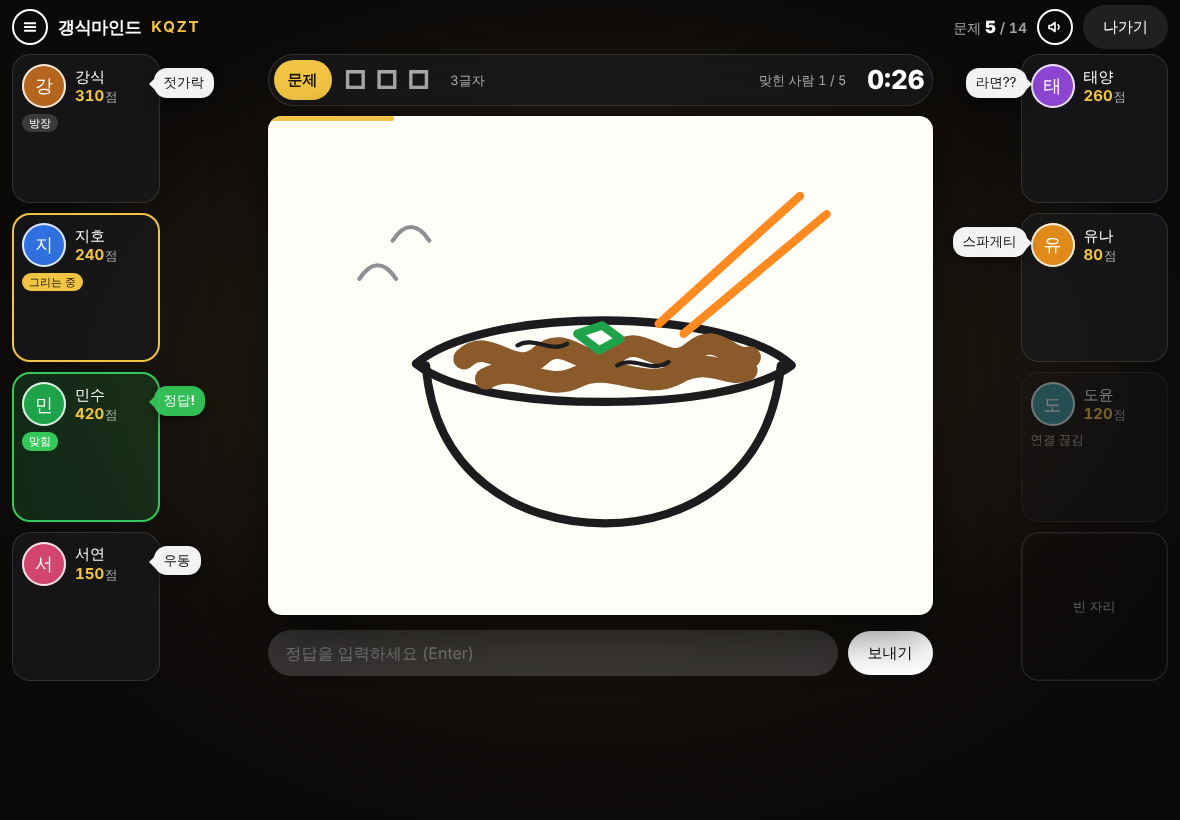
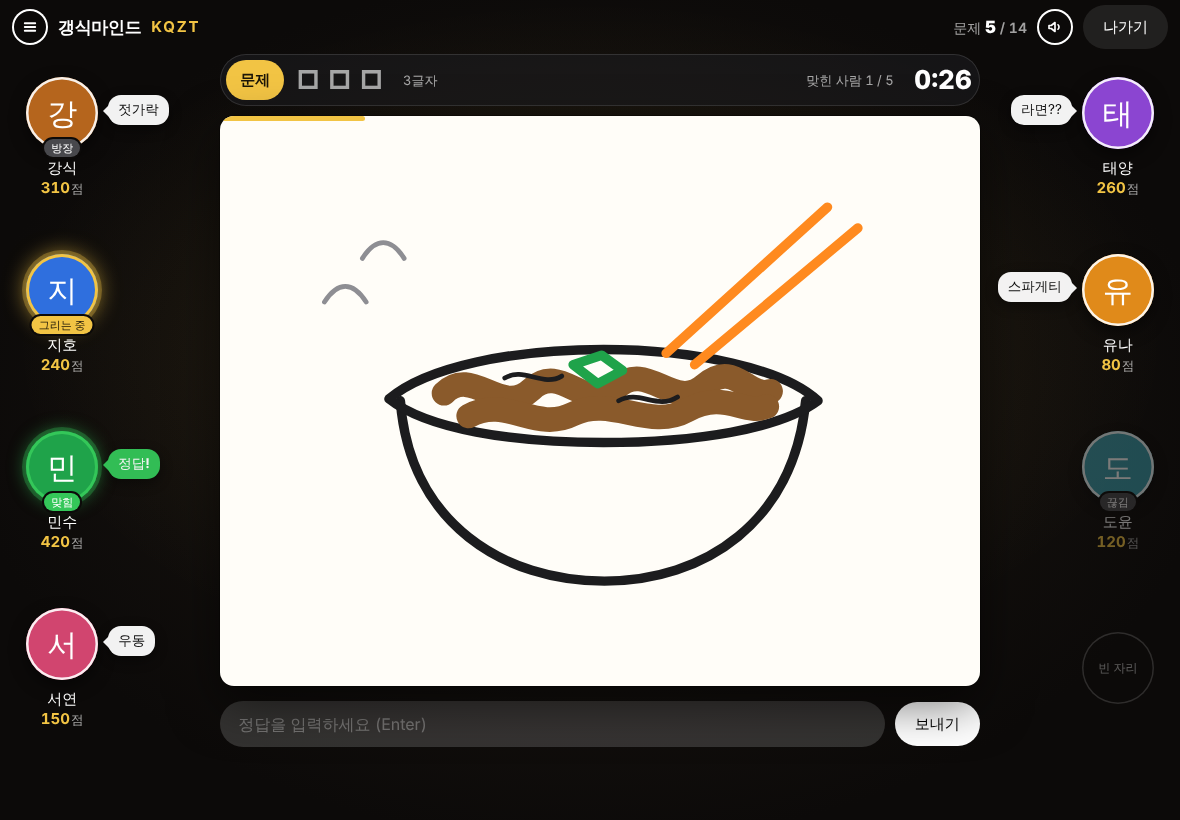
갱식마인드: 기획서 v0.2와 시안 갱신(출제 순서, 점수, 도구, 프로필 말풍선)
Claude-Session: https://claude.ai/code/session_01HLnaqZjB45q4jBceVSssci

diff --git a/design/draw/index.html b/design/draw/index.html
@@ -16,7 +16,7 @@
   --accent:#f2c444;--on-accent:#1c1608;--red:#ff453a;--green:#34c759;
   --panel:rgba(28,28,30,.62);--paper:#fffdf8;
   --pad:12px;--gap:12px;--bar:54px;--strip:52px;--under:56px;
-  --pw:clamp(120px,12.5vw,160px);--palw:84px;--toolw:64px;
+  --pw:clamp(92px,8.5vw,112px);--palw:84px;--toolw:64px;
   --sl:0px;--sr:0px;
   --ch:min(calc(100dvh - var(--bar) - var(--pad)*2 - var(--strip) - var(--under) - 20px),
            calc((100vw - var(--pad)*2 - var(--pw)*2 - var(--palw) - var(--toolw) - var(--gap)*4)*.75));
@@ -61,25 +61,34 @@ svg{display:block}
   padding:0 calc(var(--pad) + var(--sr)) var(--pad) calc(var(--pad) + var(--sl))}
 .dr-seats{display:flex;flex-direction:column;gap:10px;min-height:0;height:calc(var(--strip) + var(--ch) + var(--under) + 20px)}
 .dr-seats.l{grid-column:1}.dr-seats.r{grid-column:5}
-.dr-seat{flex:1;min-height:0;border-radius:18px;background:var(--panel);box-shadow:inset 0 0 0 1px var(--hair);padding:10px;display:flex;flex-direction:column;gap:6px;position:relative;overflow:visible}
-.dr-seat.empty{background:none;box-shadow:inset 0 0 0 1.5px rgba(255,255,255,.1);align-items:center;justify-content:center;color:var(--ink3);font-size:13px}
-.dr-seat.turn{box-shadow:inset 0 0 0 2px var(--accent)}
-.dr-seat.hit{box-shadow:inset 0 0 0 2px var(--green);background:rgba(52,199,89,.16)}
+.dr-seat{flex:1;min-height:0;display:flex;flex-direction:column;align-items:center;justify-content:center;gap:2px;position:relative}
 .dr-seat.off{opacity:.45}
-.dr-who{display:flex;gap:9px;align-items:center;min-width:0}
-.dr-who>div{min-width:0}
+.dr-who{display:flex;flex-direction:column;gap:9px;align-items:center;min-width:0;max-width:100%;text-align:center}
+.dr-who>div{min-width:0;max-width:100%}
+.dr-avw{position:relative;display:block}
+.dr-seat .dr-av{width:72px;height:72px;font-size:30px;box-shadow:inset 0 0 0 2.5px rgba(255,255,255,.9),0 6px 16px rgba(0,0,0,.5)}
+.dr-seat.turn .dr-av{box-shadow:inset 0 0 0 3px var(--accent),0 0 0 4px rgba(242,196,68,.3),0 0 22px rgba(242,196,68,.7)}
+.dr-seat.hit .dr-av{box-shadow:inset 0 0 0 3px var(--green),0 0 0 4px rgba(52,199,89,.3),0 0 18px rgba(52,199,89,.6)}
+.dr-av.dr-none{background:none;box-shadow:inset 0 0 0 1.5px rgba(255,255,255,.14);color:var(--ink3);font-size:12px;font-weight:500}
 .dr-nm{font-weight:700;font-size:15px;white-space:nowrap;overflow:hidden;text-overflow:ellipsis}
 .dr-sc{font-size:12.5px;color:var(--ink2);white-space:nowrap}
 .dr-sc b{color:var(--accent);font-size:15px;margin-right:1px}
-.dr-tag{align-self:flex-start;font-size:11px;font-weight:700;padding:2px 7px;border-radius:9px;background:var(--accent);color:var(--on-accent)}
-.dr-tag.host{background:var(--fill2);color:var(--ink)}
+.dr-tag{position:absolute;left:50%;bottom:-8px;transform:translateX(-50%);white-space:nowrap;font-size:11px;font-weight:700;padding:2px 7px;border-radius:9px;background:var(--accent);color:var(--on-accent);box-shadow:0 0 0 2px #0c0a09}
+.dr-tag.host,.dr-tag.gone{background:#48484c;color:var(--ink)}
 .dr-tag.ok{background:var(--green);color:#fff}
-.dr-say{position:absolute;top:14px;z-index:4;width:max-content;max-width:170px;font-size:13.5px;line-height:1.3;padding:6px 10px;border-radius:13px;background:#fff;color:#111;opacity:.95;pointer-events:none;
+/* 말할 때 프로필이 통통, 맞혔을 때는 더 크게 */
+.dr-av.talk{animation:dr-bounce .38s cubic-bezier(.3,.7,.4,1)}
+.dr-av.cheer{animation:dr-cheer .75s cubic-bezier(.3,.7,.4,1)}
+@keyframes dr-bounce{0%{transform:none}30%{transform:translateY(-12px) scale(.95,1.06)}62%{transform:translateY(0) scale(1.1,.9)}82%{transform:translateY(-3px) scale(.98,1.02)}100%{transform:none}}
+@keyframes dr-cheer{0%{transform:none}22%{transform:translateY(-24px) scale(1.18) rotate(-10deg)}44%{transform:translateY(0) scale(1.14,.88) rotate(0)}62%{transform:translateY(-12px) scale(1.08) rotate(8deg)}82%{transform:translateY(0) scale(1.05,.95)}100%{transform:none}}
+@media (prefers-reduced-motion:reduce){.dr-av.talk,.dr-av.cheer{animation:none}}
+.dr-say{position:absolute;top:18px;z-index:4;width:max-content;max-width:170px;font-size:13.5px;line-height:1.3;padding:6px 10px;border-radius:13px;background:#fff;color:#111;opacity:.95;pointer-events:none;
   box-shadow:0 4px 14px rgba(0,0,0,.45);display:-webkit-box;-webkit-line-clamp:2;-webkit-box-orient:vertical;overflow-wrap:anywhere;animation:dr-pop .28s cubic-bezier(.3,1.6,.5,1) both}
 .dr-say::before{content:'';position:absolute;top:9px;border:7px solid transparent}
-.dr-seats.l .dr-say{left:calc(100% - 6px);transform-origin:0 50%}
+.dr-say.out{opacity:0;transition:opacity .4s}
+.dr-seats.l .dr-say{left:calc(100% + 10px);transform-origin:0 50%}
 .dr-seats.l .dr-say::before{left:-12px;border-right-color:#fff}
-.dr-seats.r .dr-say{right:calc(100% - 6px);transform-origin:100% 50%}
+.dr-seats.r .dr-say{right:calc(100% + 10px);transform-origin:100% 50%}
 .dr-seats.r .dr-say::before{right:-12px;border-left-color:#fff}
 .dr-say.ok{background:var(--green);color:#fff;font-weight:700}
 .dr-seats.l .dr-say.ok::before{border-right-color:var(--green)}.dr-seats.r .dr-say.ok::before{border-left-color:var(--green)}
@@ -87,7 +96,7 @@ svg{display:block}
 @keyframes dr-pop{from{transform:scale(.4);opacity:0}}
 @media (prefers-reduced-motion:reduce){.dr-say{animation:none}}
 .mk-still .dr-say{animation:none}
-.dr-plus{position:absolute;right:10px;bottom:8px;font-weight:800;color:var(--green);font-size:20px}
+.dr-plus{font-weight:800;color:var(--green);font-size:19px;line-height:1.1}
 
 .dr-pal{grid-column:2;align-self:start;margin-top:calc(var(--strip) + 10px);display:grid;grid-template-columns:1fr 1fr;gap:8px;padding:8px;border-radius:18px;background:var(--panel);box-shadow:inset 0 0 0 1px var(--hair)}
 .dr-sw{aspect-ratio:1;border-radius:50%;box-shadow:inset 0 0 0 1.5px rgba(255,255,255,.28);position:relative}
@@ -205,25 +214,22 @@ svg{display:block}
   .dr-stage{grid-template-columns:var(--pw) var(--palw) var(--cw) var(--toolw);grid-template-rows:1fr 1fr;gap:4px var(--gap)}
   .dr-seats{height:auto;gap:4px}
   .dr-seats.l{grid-column:1;grid-row:1}.dr-seats.r{grid-column:1;grid-row:2}
-  .dr-seat{flex-direction:row;align-items:center;border-radius:11px;padding:0 8px;gap:7px}
-  .dr-seat.empty{font-size:11.5px}
-  .dr-who{flex:1;gap:7px}
-  .dr-av{width:26px;height:26px;font-size:12px;box-shadow:inset 0 0 0 1.5px rgba(255,255,255,.85)}
+  .dr-seat{flex-direction:row;justify-content:flex-start;padding:0 6px;gap:7px}
+  .dr-avw{display:contents}
+  .dr-who{flex:1;flex-direction:row;gap:7px;text-align:left}
+  .dr-av,.dr-seat .dr-av{width:28px;height:28px;font-size:12.5px}
+  .dr-av.dr-none{width:auto;height:auto;box-shadow:none;font-size:11.5px;padding-left:4px}
   .dr-nm{font-size:12.5px}.dr-sc{font-size:11px}.dr-sc b{font-size:12.5px}
   .dr-who>div{display:flex;gap:6px;align-items:baseline;white-space:nowrap}
-  .dr-seat>.dr-sc{display:none}
   .dr-ph{display:flex}hr.dr-ph{display:block}
   .dr-stage{align-content:start}.dr-seats{align-self:stretch}
-  .dr-tag{align-self:center;font-size:0;padding:1px 5px;flex:none}
-  .dr-tag::before{content:'✎';font-size:11px}
-  .dr-tag.ok::before{content:'✓'}
   .dr-tag{display:none!important}
-  .dr-seat:has(.dr-plus) .dr-tag{display:none}
   .dr-seat:has(.dr-plus) .dr-sc{font-size:0}
   .dr-plus{font-size:12.5px}
   .dr-say{top:50%;margin-top:-13px;max-width:124px;font-size:12px;padding:4px 8px;-webkit-line-clamp:1;white-space:nowrap;overflow:hidden;text-overflow:ellipsis;display:block}
   .dr-say::before{top:6px;border-width:6px}
-  .dr-seats.r .dr-say{right:auto;left:calc(100% - 6px);transform-origin:0 50%}
+  .dr-seats.l .dr-say{left:calc(100% - 2px)}
+  .dr-seats.r .dr-say{right:auto;left:calc(100% - 2px);transform-origin:0 50%}
   .dr-seats.r .dr-say::before{right:auto;left:-11px;border-left-color:transparent;border-right-color:#fff}
   .dr-seats.r .dr-say.ok::before{border-left-color:transparent;border-right-color:var(--green)}
   .mine .dr-say{left:auto!important;right:5px!important;max-width:64px;opacity:.95}
@@ -295,7 +301,8 @@ const P = new URLSearchParams(location.search);
 const S = P.get('s') || 'draw';
 const SCREENS = [['lobby','a1 로비'],['room','a2 방 대기'],['pick','b1 단어 고르기'],['draw','b2 내가 그림'],['size','b3 굵기 조정'],['guess','c 맞히기'],['kb','c2 키보드(폰)'],['reveal','d 정답 공개'],['final','e 최종 순위']];
 if (P.get('shot') === '1') document.documentElement.classList.add('mk-still');   // 스크린샷용: 움직임 끔
-if (P.get('shot') !== '1') document.getElementById('nav').innerHTML = SCREENS.map(([k, n]) => `<a href="?s=${k}" class="${k === S ? 'on' : ''}">${n}</a>`).join('');
+if (P.get('shot') !== '1') document.getElementById('nav').innerHTML = SCREENS.map(([k, n]) => `<a href="?s=${k}" class="${k === S ? 'on' : ''}">${n}</a>`).join('')
+  + (['draw', 'guess', 'size'].includes(S) ? '<a href="#" id="demoSay">▶ 말하기 시연</a><a href="#" id="demoHit">▶ 정답 시연</a>' : '');
 
 // 색 12개 (기획서 6-2와 같은 값·순서)
 const COLORS = ['#1c1c1e','#8e8e93','#8a5a2b','#f5c9a3','#e5352b','#ff8a1f','#ffd426','#1fa34a','#3bb8f5','#1f55d6','#8b45d1','#ff7eb8'];
@@ -327,16 +334,16 @@ const ART = `<svg viewBox="0 0 800 600" fill="none" stroke-linecap="round" strok
 </svg>`;
 
 function seat(p, i, o) {
-  if (!p) return `<div class="dr-seat empty">빈 자리</div>`;
+  if (!p) return `<div class="dr-seat empty"><span class="dr-av dr-none">빈 자리</span></div>`;
   const gain = o.gain && o.gain[i];                 // 정답 공개 때 이번 문제로 얻은 점수
   const hit = (o.hits || []).includes(i) || (gain && o.turn !== i);
   const cls = [p.off ? 'off' : '', o.turn === i ? 'turn' : '', hit ? 'hit' : ''].join(' ');
   const say = o.says && o.says[i];
-  return `<div class="dr-seat ${cls}">
-    <div class="dr-who"><span class="dr-av" style="background:${p.c}">${p.n[0]}</span><div><div class="dr-nm">${p.n}</div><div class="dr-sc"><b>${p.s + (gain || 0)}</b>점</div></div></div>
-    ${o.turn === i ? '<span class="dr-tag">그리는 중</span>' : hit && !gain ? '<span class="dr-tag ok">맞힘</span>' : p.host ? '<span class="dr-tag host">방장</span>' : ''}
-    ${p.off ? '<span class="dr-sc">연결 끊김</span>' : ''}
-    ${say && !hit ? `<div class="dr-say">${say}</div>` : hit && !gain ? '<div class="dr-say ok">정답!</div>' : ''}
+  const tag = o.turn === i ? '<span class="dr-tag">그리는 중</span>' : hit ? '<span class="dr-tag ok">맞힘</span>' : p.off ? '<span class="dr-tag gone">끊김</span>' : p.host ? '<span class="dr-tag host">방장</span>' : '';
+  return `<div class="dr-seat ${cls}" data-i="${i}">
+    <div class="dr-who"><span class="dr-avw"><span class="dr-av" style="background:${p.c}">${p.n[0]}</span>${tag}
+      ${say && !hit ? `<span class="dr-say">${say}</span>` : hit && !gain ? '<span class="dr-say ok">정답!</span>' : ''}</span>
+      <div><div class="dr-nm">${p.n}</div><div class="dr-sc"><b>${p.s + (gain || 0)}</b>점</div></div></div>
     ${gain ? `<span class="dr-plus">+${gain}</span>` : ''}
   </div>`;
 }
@@ -443,6 +450,25 @@ const VIEWS = {
   },
 };
 document.getElementById('app').innerHTML = (VIEWS[S] || VIEWS.draw)();
+
+// ---------- 시안 전용: 말하기·정답 모션 시연 ----------
+function demo(kind) {
+  const seats = [...document.querySelectorAll('.dr-seat[data-i]:not(.turn):not(.off)')].filter((e) => kind === 'hit' ? !e.classList.contains('hit') : true);
+  const el = seats[Math.floor(Math.random() * seats.length)];
+  if (!el) return;
+  const av = el.querySelector('.dr-av');
+  const wrap = el.querySelector('.dr-avw');
+  el.querySelector('.dr-say')?.remove();                       // 새 말이 오면 바로 교체
+  const b = document.createElement('span');
+  b.className = 'dr-say' + (kind === 'hit' || el.classList.contains('hit') ? ' ok' : '');
+  b.textContent = kind === 'hit' || el.classList.contains('hit') ? '정답!' : ['짬뽕', '국수인가', '비빔면', '이거 뭐야 ㅋㅋㅋ', '파스타'][Math.floor(Math.random() * 5)];
+  wrap.appendChild(b);
+  if (kind === 'hit') { el.classList.add('hit'); wrap.querySelector('.dr-tag')?.remove(); wrap.insertAdjacentHTML('beforeend', '<span class="dr-tag ok">맞힘</span>'); }
+  av.classList.remove('talk', 'cheer'); void av.offsetWidth; av.classList.add(kind === 'hit' ? 'cheer' : 'talk');
+  setTimeout(() => { b.classList.add('out'); setTimeout(() => b.remove(), 400); }, 3500);   // 3.5초 뒤 사라짐
+}
+document.getElementById('demoSay')?.addEventListener('click', (e) => { e.preventDefault(); demo('say'); });
+document.getElementById('demoHit')?.addEventListener('click', (e) => { e.preventDefault(); demo('hit'); });
 </script>
 </body>
 </html>

diff --git a/docs/draw/GDD.md b/docs/draw/GDD.md
@@ -62,7 +62,7 @@
 | 5 | ☑ 맞힌 사람의 채팅은 **맞힌 사람과 그리는 사람에게만** 보인다(3-5) | 먼저 맞힌 사람이 힌트를 흘리지 못하게 |
 | 6 | ☑ 글자 수를 칸으로 자동 표시(`□□□ 3글자`), 방장이 끌 수 있다 | 원작도 점을 찍어 알려 주던 관행 |
 | 7 | ☑ 무입력 넘김은 **시작 후 20초 안에 첫 선이 없을 때만** | 생각하느라 멈춘 사람은 넘기지 않는다 |
-| 8 | ✅ 그림 도구: 12색, 굵기 3단계, 되돌리기·다시 하기 | 6절 |
+| 8 | ✅ 그림 도구: 12색, 굵기 빠른 버튼 3개 + 굵기 조정, 정밀 지우개·획 지우개, 되돌리기·다시 하기 | 6절 |
 | 9 | ☑ 정답 판정: 띄어쓰기·대소문자 무시, 단어 목록의 "다른 이름"도 정답 | 입력 실수로 틀리는 일을 막는다 |
 | 10 | ☑ 방장 메뉴에 "이 문제 넘기기" | 글자를 써서 알려 주는 반칙은 기계가 못 잡는다 |
 
@@ -241,9 +241,12 @@
 | d 정답 공개 | `?s=reveal` | 그림판 아래쪽에 정답 카드(맞힌 사람마다 얻은 점수), 각자 칸에 +점수 | 같음 |
 | e 최종 순위 | `?s=final` | 1~3등 단상 + 목록 + 한 판 더 | 같음(가로로 나눔) |
 
-- **PC·iPad**: 원작 배치 그대로 좌우에 플레이어 칸 4개씩(사진·이름·점수·말풍선). 맞힌 사람 칸은 초록 테두리와 "맞힘". 가운데 위 "문제" 띠(그리는 사람만 단어, 나머지는 칸), 오른쪽에 "맞힌 사람 1/5"와 남은 시간, 그림판 위쪽에 줄어드는 금색 막대.
-  색은 그림판 왼쪽, 도구(펜·정밀 지우개·획 지우개·되돌리기·다시 하기·전체 지우기)는 오른쪽(참고 이미지 방식), 굵기 3개·굵기 조정·포기는 아래.
-- **휴대폰 가로(844×390)**: 8칸을 그대로 두면 그림판이 작아져서 **왼쪽 한 줄 목록(8줄, 폭 150px)** 으로 바꿨다. 윗줄 하나에 문제·남은 시간·포기를 모았다.
+- **PC·iPad**: 원작처럼 좌우에 4명씩. 다만 ✅ **큰 네모 칸을 쓰지 않는다**(사용자 결정). **큰 동그란 프로필 사진(72px) + 아래에 이름·점수**만 둔다. 배경·테두리 없음.
+  - 상태는 프로필 테두리와 작은 배지로: 그리는 사람 = 금색 테두리 + "그리는 중", 맞힌 사람 = 초록 테두리 + "맞힘", 방장 = 회색 "방장", 끊김 = 흐리게 + "끊김", 빈 자리 = 점선 동그라미.
+  - 칸이 좁아진 만큼 **그림판이 커졌다**(1280×800에서 740×555 → 792×594). 남는 옆자리는 말풍선이 튀어나오는 자리.
+  - 가운데 위 "문제" 띠(그리는 사람만 단어, 나머지는 칸), 오른쪽에 "맞힌 사람 1/5"와 남은 시간, 그림판 위쪽에 줄어드는 금색 막대.
+  - 색은 그림판 왼쪽, 도구(펜·정밀 지우개·획 지우개·되돌리기·다시 하기·전체 지우기)는 오른쪽(참고 이미지 방식), 굵기 3개·굵기 조정·포기는 아래.
+- **휴대폰 가로(844×390)**: 8명을 좌우로 두면 그림판이 작아져서 **왼쪽 한 줄 목록(8줄, 작은 프로필 + 이름 + 점수, 배경 없음)** 으로 바꿨다. 윗줄 하나에 문제·남은 시간·포기를 모았다.
   그리는 사람: `[플레이어 132px][색 2×6][그림판 약 430×322][도구 2줄: 펜·지우개 둘·되돌리기·다시 하기 / 굵기 3개·굵기 조정·전체 지우기]`. 맞히는 사람: 색·도구 자리가 없어지고 `[플레이어][그림판][채팅 기록]`.
   좌우 44px은 노치 자리로 비웠다. 그림판 높이는 화면 높이의 약 85%.
 - 휴대폰 키보드: 가로 화면에서 키보드가 절반을 가린다. 입력 칸을 맨 위에 두고, 키보드가 올라오면 보이는 높이에 맞춰 그림판을 줄인다(`visualViewport`). **미확인(실기기 확인 필요)**.
@@ -254,7 +257,12 @@
     그리는 사람 화면에서는 색·도구 칸을 덜 가리도록 폭을 104px로 줄이고 더 비치게(88%) 한다.
   - 정답을 맞힌 말: 글자는 보이지 않고 **초록 말풍선 "정답!"** 만 뜬다. 맞힌 사람끼리 하는 말: 맞힌 사람·그리는 사람에게는 초록 테두리 말풍선으로 글이 보이고, 못 맞힌 사람에게는 **아무것도 뜨지 않는다**(글이 전송되지 않는다).
   - 휴대폰 가로: 맞히는 사람은 왼쪽 목록의 줄 옆으로 말풍선이 튀어나와 그림판 왼쪽 끝에 겹친다(오른쪽 채팅 기록도 그대로). 그리는 사람은 그림판·색을 가리지 않게 **그 줄 안**(점수 자리)에 잠깐 뜬다.
-  - 움직임: 꼬리 쪽에서 톡 커지며 나타난다(0.28초). `prefers-reduced-motion`이면 움직임 없이 나타난다.
+  - 움직임: 말풍선은 꼬리 쪽에서 톡 커지며 나타난다(0.28초).
+- **말할 때 프로필이 통통 튄다**(✅ 사용자): 채팅 말풍선이 뜰 때마다 그 사람 프로필이 위로 12px 튀었다가 내려오며 살짝 눌렸다 펴진다(**0.38초**).
+  - **정답을 맞혔을 때**는 더 큰 움직임: 24px 높이로 두 번 뛰며 좌우로 살짝 기울고 1.18배까지 커졌다 돌아온다(**0.75초**) + 초록 테두리가 켜진다.
+  - 휴대폰 가로 목록의 작은 프로필(28px)도 같은 움직임을 쓴다.
+  - `prefers-reduced-motion`이면 튀지 않고 말풍선·테두리만 바뀐다. 움직임 느낌은 **미확인(실기기 확인 필요)**.
+  - 시안에서 직접 볼 수 있다: `?s=guess`나 `?s=draw` 화면 왼쪽 아래 "▶ 말하기 시연", "▶ 정답 시연".
 - 상단 줄은 라이어게임의 `.lgbar`와 같은 자리·방식(방 코드, 메뉴, 소리, 나가기).
 
 ## 8. 규칙 체크리스트 (13항목)
@@ -310,7 +318,7 @@
 
 **⑪ 소리·움직임**
 - 소리(☑): 내 차례 알림, 누가 맞힘(딩동), 시간 10초 남음(똑딱), 시간 끝. 기존 소리 켜기/끄기 버튼을 따른다. **미확인(실기기 확인 필요)**.
-- 움직임(☑): 시간 막대가 줄어듦(10초 남으면 빨강), 정답자 칸이 초록으로 바뀌며 +1이 튀어 오름, 정답 카드가 아래에서 올라옴, 최종 순위 단상이 3→2→1등 순으로 올라옴. `prefers-reduced-motion`이면 움직임 없이 바로 표시.
+- 움직임(☑): 시간 막대가 줄어듦(10초 남으면 빨강), 말할 때 프로필 통통, 맞히면 프로필이 크게 뛰고 초록 테두리(7절), 정답 공개 때 +점수가 튀어 오름, 정답 카드가 아래에서 올라옴, 최종 순위 단상이 3→2→1등 순으로 올라옴. `prefers-reduced-motion`이면 움직임 없이 바로 표시.
 
 **⑫ 배포** — 11절.
 
@@ -419,3 +427,4 @@
 - 2026-11-13 초안. 사용자: 캐치마인드 규칙과 같게, 배치는 원작 화면 참고, 그림판은 사용자 참고 이미지(왼쪽 색·오른쪽 도구) + 조사로 "직관적으로 딱 필요한 기능만, 부드럽게", 라이어처럼 숨김 스위치.
 - 2026-11-13 사용자 결정: 이름 갱식마인드. 출제 순서 3가지(순서대로·맞힌 사람·랜덤)와 라운드 수를 방장이 따로 설정. 여러 명이 맞힐 때까지 계속, 빠를수록 높은 점수. 단어 3개 중 고르기 유지. 채우기는 빼고 시작. 되돌리기와 다시 하기는 반드시 넣는다.
 - 2026-11-13 사용자 결정(추가): 지우개를 획 지우개·정밀 지우개 둘로. 굵기 조정 버튼 추가(2~40px). 말풍선은 플레이어 칸 옆으로 튀어나오게.
+- 2026-11-13 사용자 결정(추가): 플레이어 표시는 큰 네모 칸 대신 큰 동그란 프로필 + 이름·점수. 말할 때마다 프로필이 통통 튀고, 맞히면 더 크게 뛴다.
